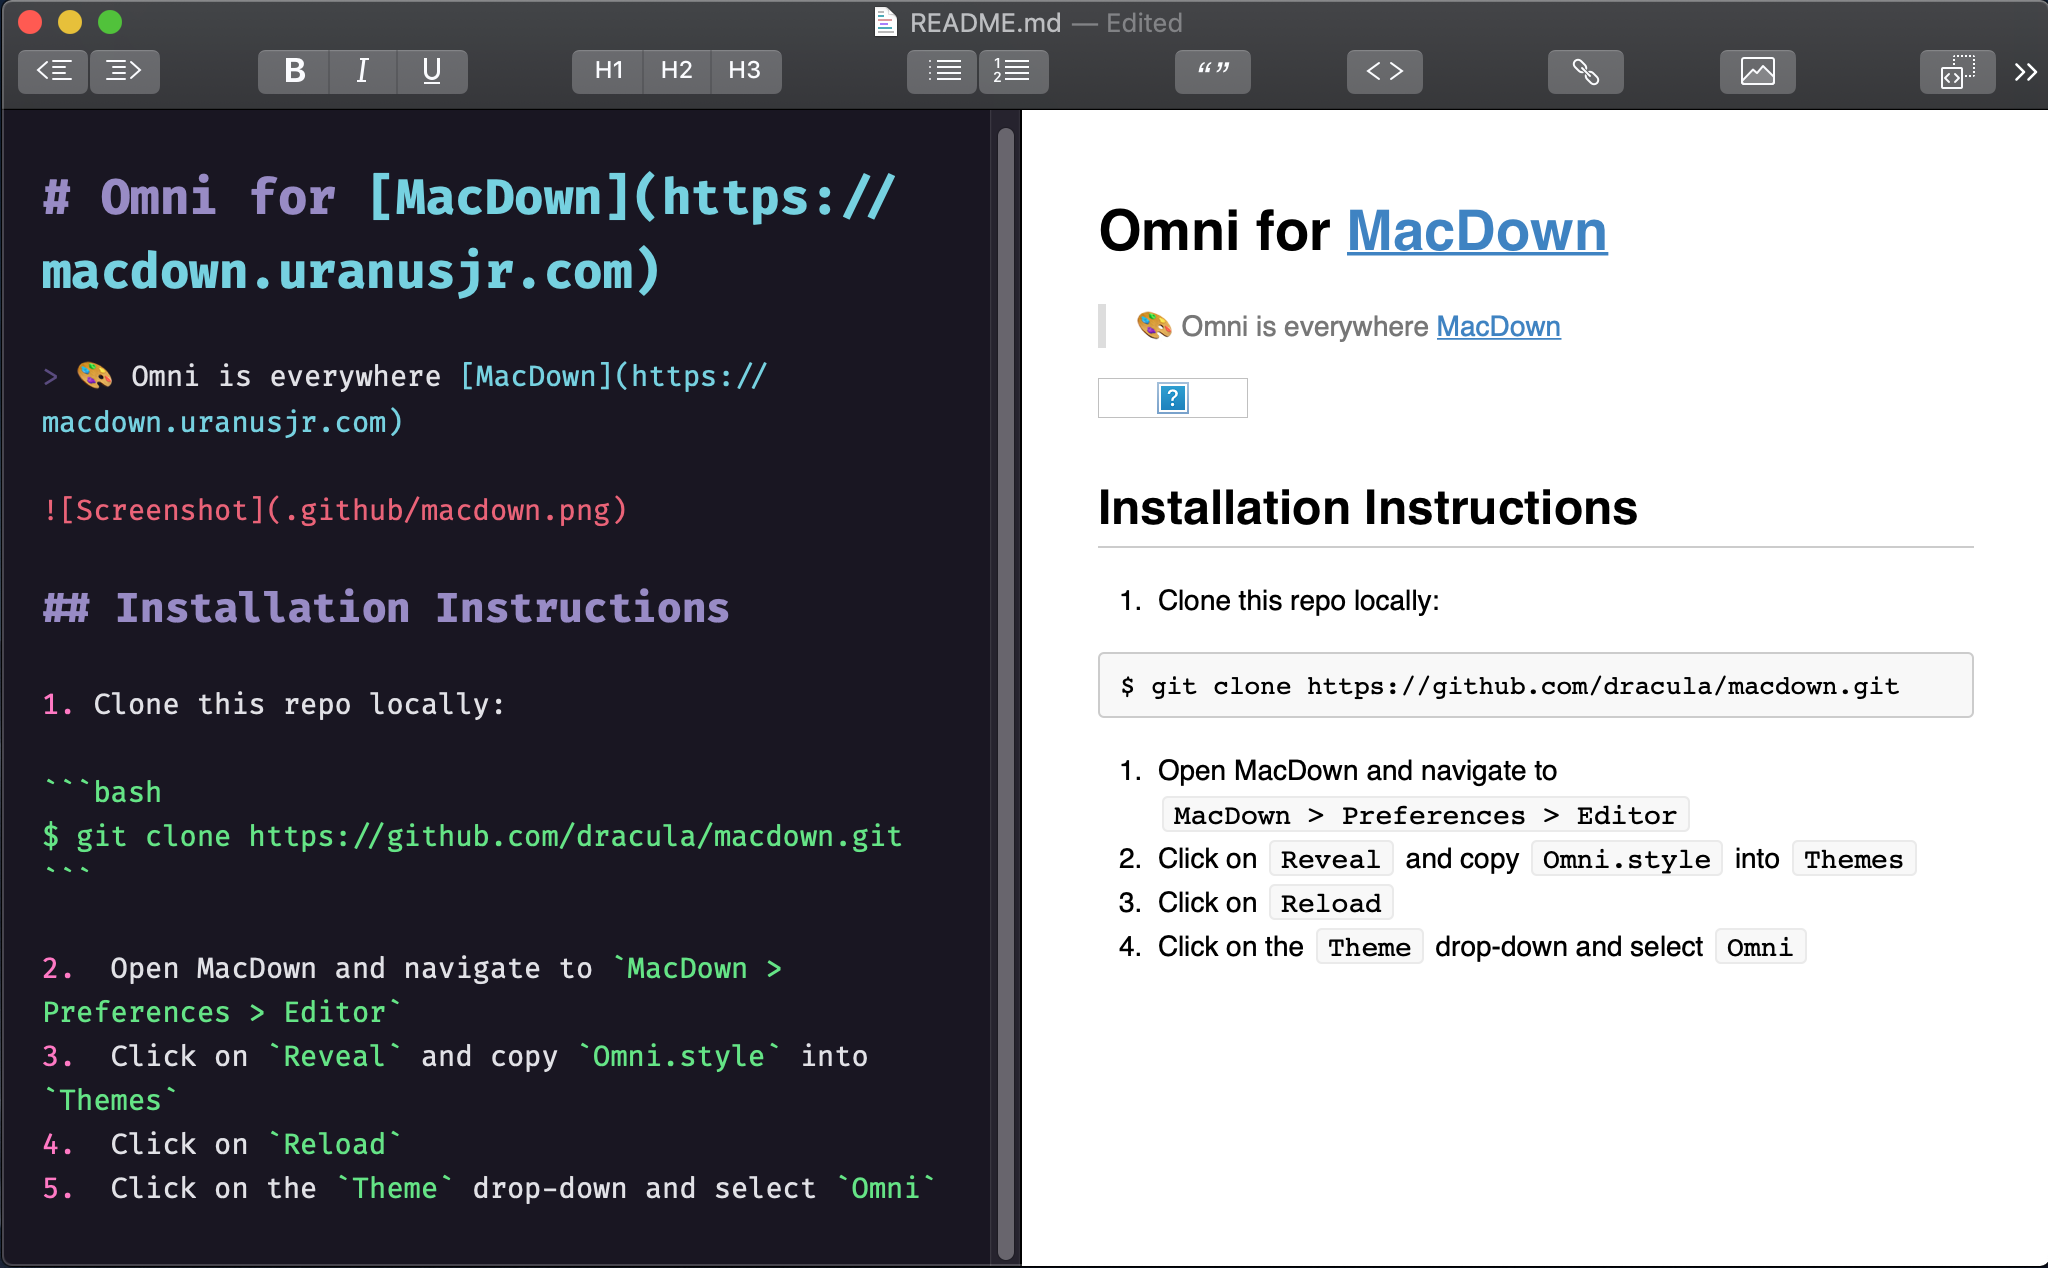
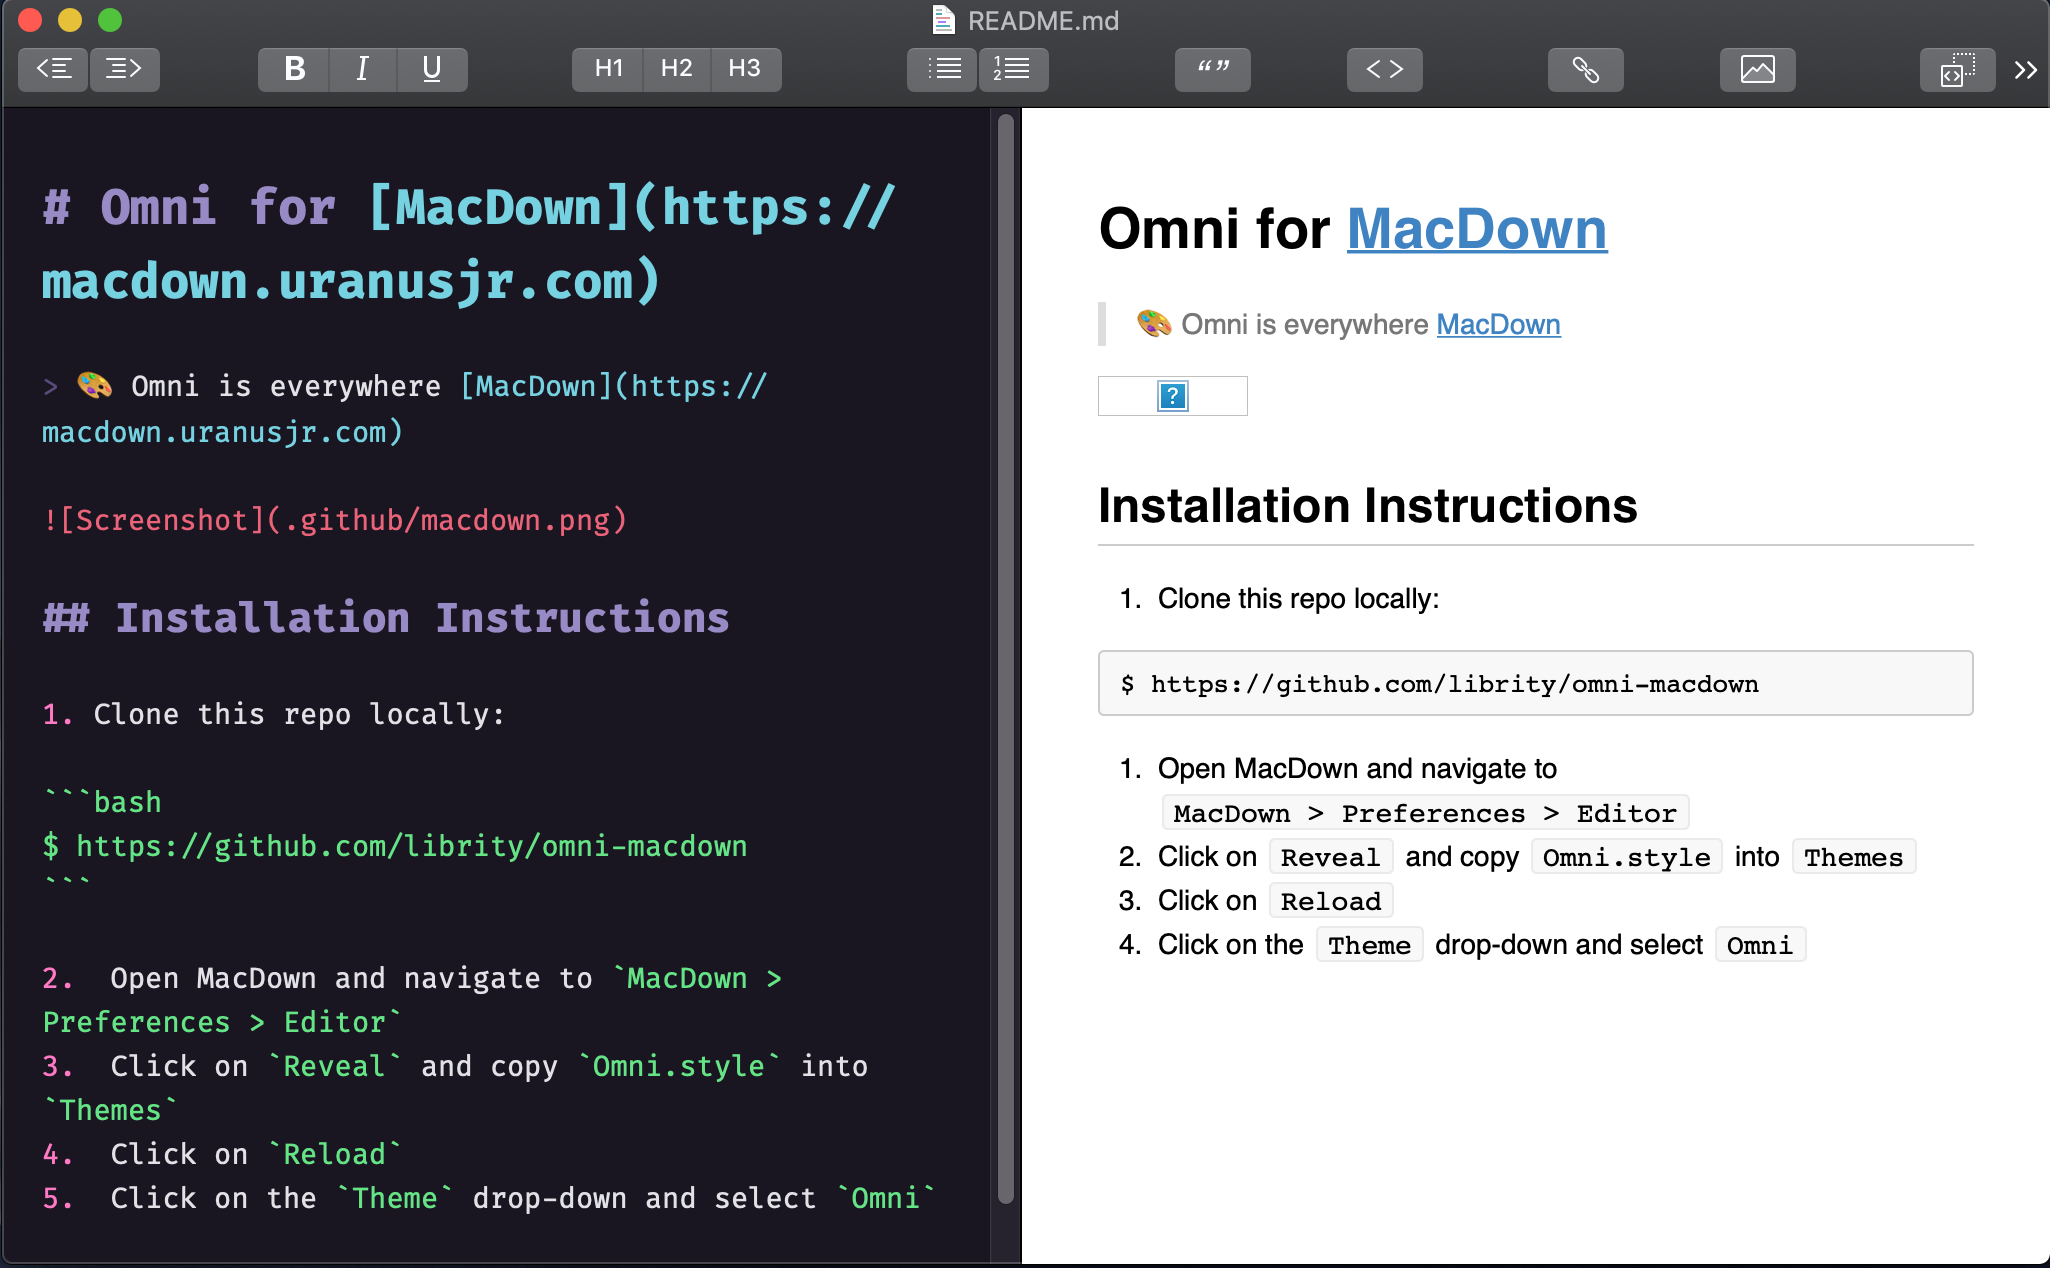
Correct typo.

diff --git a/README.md b/README.md
@@ -9,7 +9,7 @@
 1. Clone this repo locally:
 
 ```bash
-$ git clone https://github.com/dracula/macdown.git
+$ https://github.com/librity/omni-macdown
 ```
 
 2.  Open MacDown and navigate to `MacDown > Preferences > Editor`
